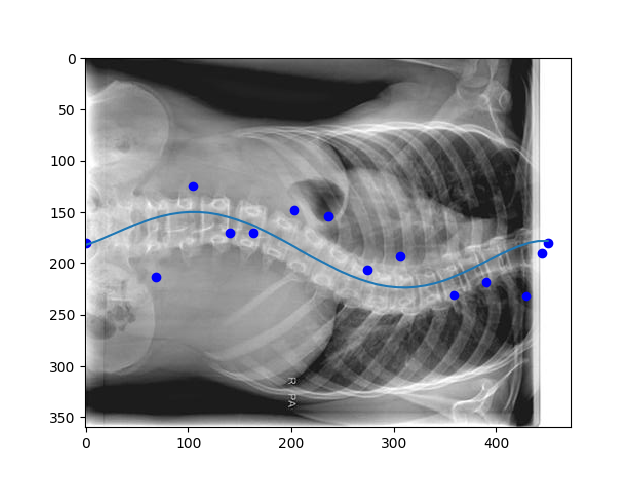
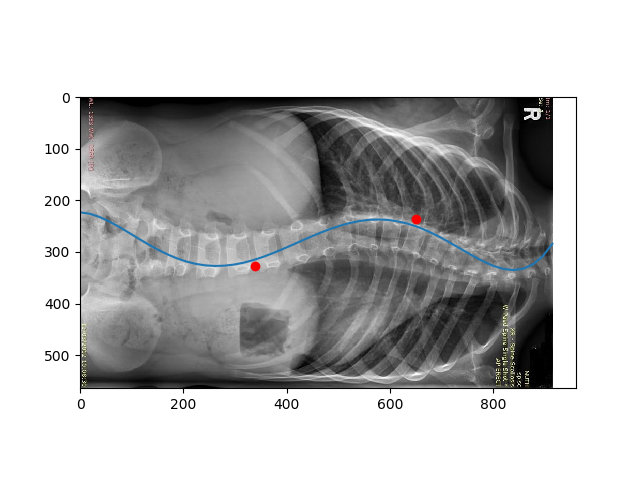
Commit

diff --git a/l_flask/video_10/templates/_macro.html b/l_flask/video_10/templates/_macro.html
@@ -1,0 +1,6 @@
+{% macro show_list(value) %}
+    <h1>{{ value }}</h1>
+    <h2>{{ value }}</h2>
+    <h3>{{ value }}</h3>
+    <h4>{{ value }}</h4>
+{% endmacro %}

diff --git a/l_flask/video_10/templates/base/base.html b/l_flask/video_10/templates/base/base.html
@@ -1,0 +1,11 @@
+<html>
+
+<head>
+    <title>general</title>
+</head>
+
+<body>
+    {%block content%}
+</body>
+
+</html>

diff --git a/l_flask/video_10/templates/index.html b/l_flask/video_10/templates/index.html
@@ -1,0 +1,6 @@
+{% from "_macro.html" import show_list %}
+{% block content %}
+
+
+{{ show_list('ok') }}
+{% endblock %}

diff --git a/debug_proyecto2.py b/debug_proyecto2.py
@@ -12,8 +12,8 @@ from random import *
 from sklearn.cluster import KMeans
 from matplotlib import  transforms
 
-img = cv2.imread('ex5_gts.png', cv2.IMREAD_COLOR)
-imagen2 = imread('ex5.png')
+img = cv2.imread('ex2_gts.png', cv2.IMREAD_COLOR)
+imagen2 = imread('ex2.png')
 division=12
 
 
@@ -22,6 +22,8 @@ altura = img.shape[0]
 width = img.shape[1]
 ancho = int(width)
 altura2 = int(altura)
+print('wi:',ancho)
+print('he:',altura2)
 alfa = int(altura/division)
 cons = 0
 
@@ -210,11 +212,86 @@ plt.show()
 
 #de aqui para abajo es todo girado
 y=axx[0]
+print("_"*30)
+print(y)
+print("_"*30)
 x=axx[1]
+print("_"*30)
+print(x)
+print("_"*30)
+
+
+def max_min(x, y):
+    z = np.polyfit(x, y, 5)
+    #print(z)
+    #print('.-.-'*30)
+    f = np.poly1d(z)
+    #print("Ecuacion bonita: ")
+    #print(f)
+    # calculate new x's and y's
+    x_new = np.linspace(x[0], x[-1], 50)
+
+    x_new2 = x_new[::-1]
+
+    y_new = f(x_new2)
+    y_new = y_new[::-1]  # LO GIRAMOS
+    #a=f*10000000000
+
+    prim = f.deriv(1)
+    segu = f.deriv(2)
+    lroot = np.roots(prim)
+    lroot2 = []
+    for i in lroot:
+        lroot2.append(segu(i))
+    lroot3 = []
+    for ii in lroot:
+        lroot3.append(f(ii))
+
+    xdev = lroot[::-1]
+    ydev = lroot3
+
+    return xdev, ydev
+
+def punto_inflexion(x,y):
+    z = np.polyfit(x, y, 5)
+    #print(z)
+    #print('.-.-'*30)
+    f = np.poly1d(z)
+    #print("Ecuacion bonita: ")
+    #print(f)
+    # calculate new x's and y's
+    x_new = np.linspace(x[0], x[-1], 50)
+
+    x_new2 = x_new[::-1]
+
+    y_new = f(x_new2)
+    y_new = y_new[::-1]  # LO GIRAMOS
+    #a=f*10000000000
+
+    prim = f.deriv(1)
+    segu = f.deriv(2)
+    lroot = np.roots(segu)
+    lroot2=[]
+    for i in lroot:
+        lroot2.append(f(i))
+    return lroot,lroot2
+
+print("___"*20)
+pi1,pi2=punto_inflexion(x,y)
+print("+++"*20)
+a, b = max_min(x, y)
+a_2=a[1:3]
+b_2=b[1:3]
+print(a)
+print("___"*20)
+print(b)
+
+
 z = np.polyfit(x, y, 5)
 f = np.poly1d(z)
 
-print("Ecuacion bonita: ", f)
+print("Ecuacion bonita: ")
+print(f)
 # calculate new x's and y's
 x_new = np.linspace(x[0], x[-1], 50)
 x_new2 = x_new[::-1]
@@ -224,6 +301,7 @@ y_new = y_new[::-1]
 img2 = rotate(imagen2, -90)
 
 width = altura2
+
 height = ancho
 dim = (width, height)
 resized = cv2.resize(img2, dim, interpolation=cv2.INTER_AREA)
@@ -239,12 +317,18 @@ y_grafo=y
 print(type(y_grafo))
 #CABECERA
 y_inv = y[::-1]
-plt.plot(x,y_inv, 'ob')
 
+#plt.plot(x,y_inv, 'ob')
+#plt.plot(324.148, 229.3530, 'ob')
+#plt.plot(126.688, 158.2289, 'ob')
 #plt.plot(319, 216, 'ob')
-
+print("_"*20)
+print(x_new2)
+print("_"*20)
+print(y_new)
+plt.plot(a_2,b_2, 'or')
+plt.plot(pi1,pi2, 'og')
 the_plot = plt.plot( x_new2, y_new)
-
 
 plt.savefig('ejemplo.png')
 plt.show()

diff --git a/ex5_gts.py b/ex5_gts.py
@@ -49,7 +49,7 @@ def skeletonize(img):
     return img
 
 
-img = cv2.imread('ex7.png')
+img = cv2.imread('ex2.png')
 
 dimensions = img.shape
 
@@ -68,7 +68,7 @@ thresh = cv2.threshold(gray, 195, 300, cv2.THRESH_BINARY)[1]
 
 skel = skeletonize(thresh)
 
-cv2.imwrite('ex7_gts.png', skel.astype(np.uint8)*255)
+cv2.imwrite('ex22_gts.png', skel.astype(np.uint8)*255)
 cv2.imshow("skel", skel.astype(np.uint8)*255)
 
 cv2.waitKey(0)

diff --git a/ayuda_lista.py b/ayuda_lista.py
@@ -15,6 +15,9 @@ B = numpy.append(B, A)
 
 print (B)
 '''
+
+
+'''
 import numpy as np
 lista = np.array([[252.  ,0.],
          [435. , 58.],
@@ -32,3 +35,6 @@ lista = np.array([[252.  ,0.],
          [252., 772.]])
 lista= np.delete(lista, 0, 0)
 print(lista)
+'''
+a=[1,2,3,4]
+print(a[1:3])

diff --git a/l_flask/video_10/main.py b/l_flask/video_10/main.py
@@ -1,0 +1,10 @@
+from flask import Flask
+from flask import render_template
+
+app=Flask(__name__)
+@app.route('/')
+def index():
+    name='bruno'
+    return render_template('index.html',nombre=name)
+if(__name__=='__main__'):
+    app.run(debug=True,port=5000)
